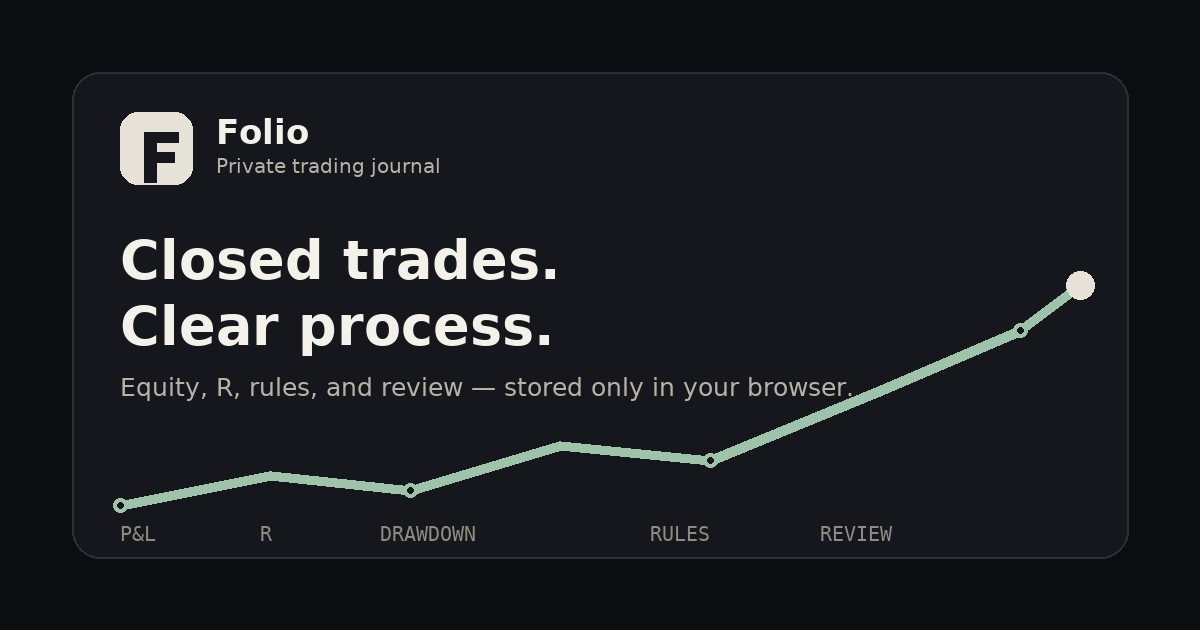
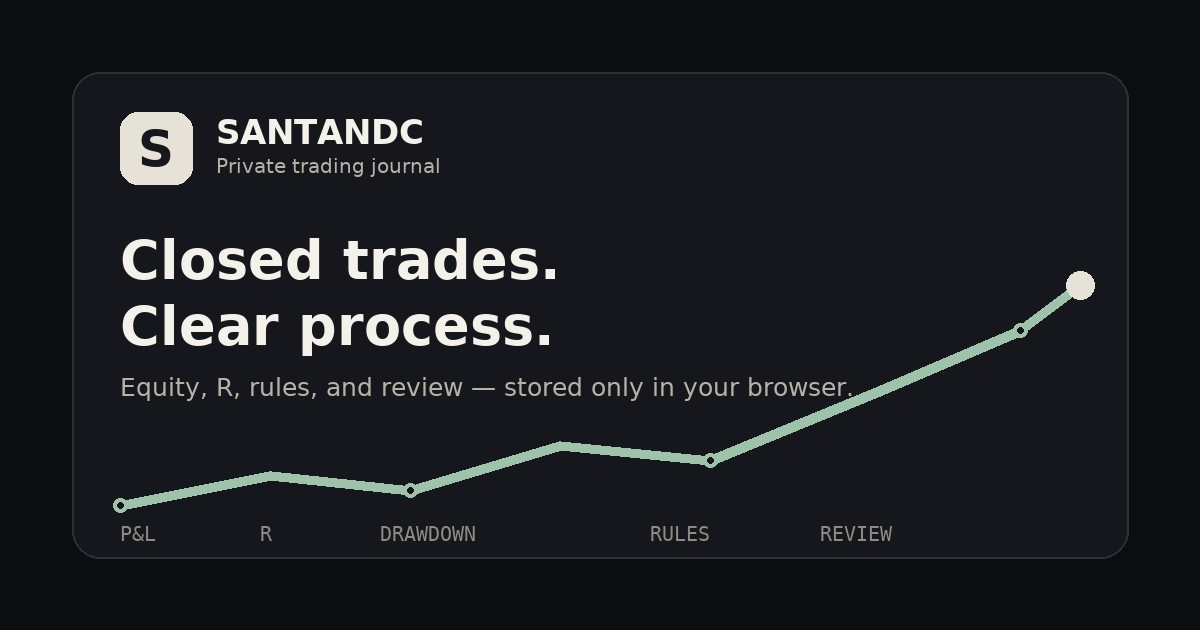
Rename Folio to SANTANDC and configure Vercel

Changed region(s): [[0.185, 0.181, 0.37, 0.2413], [0.1233, 0.2111, 0.1542, 0.3016]]

diff --git a/src/styles.css b/src/styles.css
@@ -76,11 +76,11 @@
 }
 
 @layer components {
-  .folio-overlay {
+  .santandc-overlay {
     background: color-mix(in oklab, var(--color-background) 72%, transparent);
   }
 
-  .folio-dialog {
+  .santandc-dialog {
     position: fixed;
     z-index: 50;
     top: 50%;
@@ -91,20 +91,20 @@
     overflow: auto;
   }
 
-  .folio-overlay[data-state="open"] {
-    animation: folio-fade-in 250ms var(--ease-out-soft);
+  .santandc-overlay[data-state="open"] {
+    animation: santandc-fade-in 250ms var(--ease-out-soft);
   }
 
-  .folio-overlay[data-state="closed"] {
-    animation: folio-fade-out 150ms var(--ease-out-soft);
+  .santandc-overlay[data-state="closed"] {
+    animation: santandc-fade-out 150ms var(--ease-out-soft);
   }
 
-  .folio-dialog[data-state="open"] {
-    animation: folio-pop-in 250ms var(--ease-out-soft);
+  .santandc-dialog[data-state="open"] {
+    animation: santandc-pop-in 250ms var(--ease-out-soft);
   }
 
-  .folio-dialog[data-state="closed"] {
-    animation: folio-pop-out 150ms var(--ease-out-soft);
+  .santandc-dialog[data-state="closed"] {
+    animation: santandc-pop-out 150ms var(--ease-out-soft);
   }
 
   .press {
@@ -126,29 +126,29 @@
   }
 }
 
-@keyframes folio-fade-in {
+@keyframes santandc-fade-in {
   from { opacity: 0; }
   to { opacity: 1; }
 }
 
-@keyframes folio-fade-out {
+@keyframes santandc-fade-out {
   from { opacity: 1; }
   to { opacity: 0; }
 }
 
-@keyframes folio-pop-in {
+@keyframes santandc-pop-in {
   from { opacity: 0; transform: translate(-50%, -50%) scale(0.96); }
   to { opacity: 1; transform: translate(-50%, -50%) scale(1); }
 }
 
-@keyframes folio-pop-out {
+@keyframes santandc-pop-out {
   from { opacity: 1; transform: translate(-50%, -50%) scale(1); }
   to { opacity: 0; transform: translate(-50%, -50%) scale(0.98); }
 }
 
 @media (prefers-reduced-motion: reduce) {
-  .folio-overlay,
-  .folio-dialog,
+  .santandc-overlay,
+  .santandc-dialog,
   .press {
     animation: none !important;
     transition: none !important;

diff --git a/src/components/journal/journal-app.tsx b/src/components/journal/journal-app.tsx
@@ -25,7 +25,7 @@ function Mark() {
   return (
     <svg viewBox="0 0 32 32" className="size-8 shrink-0" aria-hidden="true">
       <rect width="32" height="32" rx="8" className="fill-accent" />
-      <path d="M9 8h14v3.2H13.2V14.6h8.3v3.2h-8.3V24H9V8z" className="fill-accent-foreground" />
+      <path d="M21 10.5c-.8-1.5-2.6-2.5-5-2.5-3 0-5 1.7-5 4.1 0 5.4 10 3.1 10 7.8 0 2.4-2.1 4.1-5.2 4.1-2.6 0-4.6-1.2-5.4-3" fill="none" strokeWidth="3" strokeLinecap="round" className="stroke-accent-foreground" />
     </svg>
   );
 }
@@ -69,7 +69,7 @@ export function JournalApp() {
         <div className="flex items-center gap-3 px-2">
           <Mark />
           <div>
-            <p className="text-base font-medium tracking-tight">Folio</p>
+            <p className="text-base font-medium tracking-tight">SANTANDC</p>
             <p className="text-sm text-subtle">Private journal</p>
           </div>
         </div>
@@ -112,7 +112,7 @@ export function JournalApp() {
           <div className="flex h-14 items-center justify-between gap-3 px-4">
             <div className="flex items-center gap-2">
               <Mark />
-              <p className="text-base font-medium tracking-tight">Folio</p>
+              <p className="text-base font-medium tracking-tight">SANTANDC</p>
             </div>
             <div className="flex items-center">
               <button

diff --git a/src/lib/journal/store.ts b/src/lib/journal/store.ts
@@ -4,6 +4,20 @@ import { createJSONStorage, persist } from "zustand/middleware";
 import { buildSample } from "./sample";
 import type { Checks, JournalBackup, Rule, Trade } from "./types";
 
+const JOURNAL_STORAGE_KEY = "santandc-journal-v1";
+const LEGACY_JOURNAL_STORAGE_KEY = "folio-journal-v1";
+
+/** Preserve journals saved before the SANTANDC rename. */
+function migrateLegacyStorageKey() {
+  try {
+    if (localStorage.getItem(JOURNAL_STORAGE_KEY)) return;
+    const legacy = localStorage.getItem(LEGACY_JOURNAL_STORAGE_KEY);
+    if (legacy) localStorage.setItem(JOURNAL_STORAGE_KEY, legacy);
+  } catch {
+    // Storage may be unavailable in a restricted browser context.
+  }
+}
+
 type JournalState = {
   trades: Trade[];
   rules: Rule[];
@@ -112,7 +126,7 @@ export const useJournal = create<JournalState>()(
         }),
     }),
     {
-      name: "folio-journal-v1",
+      name: JOURNAL_STORAGE_KEY,
       version: 1,
       migrate: (persistedState, version) => {
         if (version >= 1) return persistedState as JournalState;
@@ -145,6 +159,7 @@ export const useJournal = create<JournalState>()(
 export function useHydrateJournal(): boolean {
   const [ready, setReady] = useState(false);
   useEffect(() => {
+    migrateLegacyStorageKey();
     let cancel = false;
     const finish = () => {
       if (cancel) return;

diff --git a/src/components/journal/settings-dialog.tsx b/src/components/journal/settings-dialog.tsx
@@ -106,7 +106,7 @@ export function SettingsDialog({
               const url = URL.createObjectURL(blob);
               const link = document.createElement("a");
               link.href = url;
-              link.download = `folio-${format(new Date(), "yyyy-MM-dd")}.json`;
+              link.download = `santandc-${format(new Date(), "yyyy-MM-dd")}.json`;
               link.click();
               URL.revokeObjectURL(url);
             }}
@@ -127,7 +127,7 @@ export function SettingsDialog({
               if (!file) return;
               const parsed = parseBackup(await file.text());
               if (!parsed.ok) {
-                setError("That file isn’t a Folio backup.");
+                setError("That file isn’t a SANTANDC backup.");
                 setPending(null);
                 return;
               }
@@ -147,7 +147,7 @@ export function SettingsDialog({
               const url = URL.createObjectURL(blob);
               const link = document.createElement("a");
               link.href = url;
-              link.download = `folio-trades-${format(new Date(), "yyyy-MM-dd")}.csv`;
+              link.download = `santandc-trades-${format(new Date(), "yyyy-MM-dd")}.csv`;
               link.click();
               URL.revokeObjectURL(url);
             }}

diff --git a/src/components/ui/dialog.tsx b/src/components/ui/dialog.tsx
@@ -19,13 +19,13 @@ export function Modal({
   return (
     <Dialog.Root open={open} onOpenChange={onOpenChange}>
       <Dialog.Portal>
-        <Dialog.Overlay className="folio-overlay fixed inset-0 z-50" />
-        <Dialog.Content className="folio-dialog rounded-xl border border-border bg-card p-4 shadow-none" aria-describedby={description ? "folio-dialog-desc" : undefined}>
+        <Dialog.Overlay className="santandc-overlay fixed inset-0 z-50" />
+        <Dialog.Content className="santandc-dialog rounded-xl border border-border bg-card p-4 shadow-none" aria-describedby={description ? "santandc-dialog-desc" : undefined}>
           <div className="mb-5 flex items-start justify-between gap-4">
             <div>
               <Dialog.Title className="text-lg font-medium tracking-tight">{title}</Dialog.Title>
               {description ? (
-                <Dialog.Description id="folio-dialog-desc" className="mt-1 text-sm text-muted">
+                <Dialog.Description id="santandc-dialog-desc" className="mt-1 text-sm text-muted">
                   {description}
                 </Dialog.Description>
               ) : (

diff --git a/src/components/journal/trade-dialog.tsx b/src/components/journal/trade-dialog.tsx
@@ -435,11 +435,11 @@ export function TradeDialog({
             <TextField
               id="setup"
               value={draft.setup}
-              list="folio-setups"
+              list="santandc-setups"
               onChange={(event) => set("setup", event.target.value)}
               placeholder="Pullback"
             />
-            <datalist id="folio-setups">
+            <datalist id="santandc-setups">
               {[...new Set(["Pullback", "Breakout", "Opening drive", "Mean revert", "Reversal", ...setups])].map(
                 (setup) => (
                   <option key={setup} value={setup} />

diff --git a/src/routes/__root.tsx b/src/routes/__root.tsx
@@ -2,7 +2,7 @@ import { createRootRoute, HeadContent, Outlet, Scripts } from "@tanstack/react-r
 import { PreviewHostBridge } from "@/components/preview-host-bridge";
 import appCss from "../styles.css?url";
 
-const APP_NAME = "Folio";
+const APP_NAME = "SANTANDC";
 
 export const Route = createRootRoute({
   head: () => ({

diff --git a/README.md b/README.md
@@ -1,8 +1,8 @@
-# Folio
+# SANTANDC
 
-Folio is a private trading journal for **closed trades**. It records what happened, what it cost or made, and whether the plan was followed — then turns that history into an equity curve, R statistics, drawdown, rule adherence, and review breakdowns.
+SANTANDC is a private trading journal for **closed trades**. It records what happened, what it cost or made, and whether the plan was followed — then turns that history into an equity curve, R statistics, drawdown, rule adherence, and review breakdowns.
 
-There are no accounts and no cloud sync. Journal data is stored only in the browser's `localStorage` under the key `folio-journal-v1`.
+There are no accounts and no cloud sync. Journal data is stored only in the browser's `localStorage` under the key `santandc-journal-v1` (journals saved under the former `folio-journal-v1` key are migrated automatically).
 
 ## Features
 
@@ -65,6 +65,17 @@ R   = P&L ÷ planned risk from the stop
 
 Legacy futures sample trades were converted from “dollars per point in the size field” to `quantity: 1` with the point value stored as the multiplier, preserving their historical P&L.
 
+## Deploying to Vercel
+
+SANTANDC uses TanStack Start with the Nitro Vercel preset, and `vercel.json` pins Vercel's **TanStack Start** framework preset.
+
+1. Push this repository to GitHub, GitLab, or Bitbucket.
+2. In Vercel, choose **Add New → Project** and import the repository.
+3. Keep the root directory as the repository root and confirm the framework preset is **TanStack Start**.
+4. Deploy. No environment variables are required.
+
+`npm run build` generates Vercel Build Output API artifacts under `.vercel/output/` (static assets plus the server function). The Node.js runtime is pinned through `engines.node` in `package.json`.
+
 ## Project structure
 
 ```text
@@ -81,12 +92,12 @@ scripts/
   preview.mjs          Helper to stop/restart the local production preview on :8081
 public/
   og.jpg               1200×630 social share card
-  favicon.svg          Folio mark
+  favicon.svg          SANTANDC mark
 ```
 
 ## Scope and limitations
 
-Folio intentionally focuses on a private, local-only, closed-trades journal:
+SANTANDC intentionally focuses on a private, local-only, closed-trades journal:
 
 - No sign-in, database, sync, broker connection, or open-position tracking.
 - Views are in-app sections rather than separate URLs.
